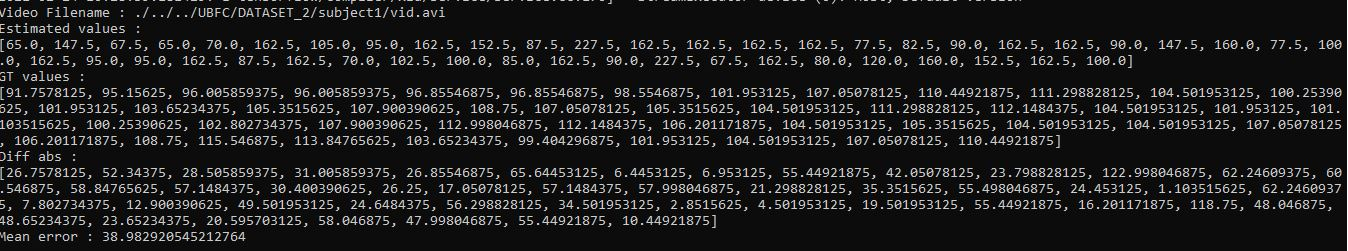
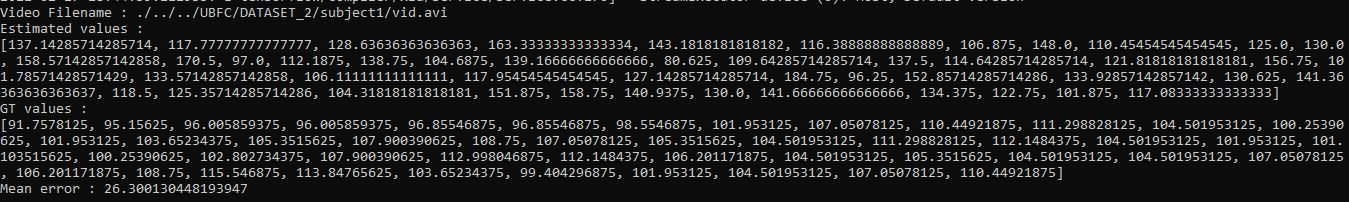
Update - model synthetic - evaluation

diff --git a/experimentation/model_SYNTHETIC/README.md b/experimentation/model_SYNTHETIC/README.md
@@ -42,19 +42,19 @@
     <tbody>
         <tr>
             <td>COHFACE Subject 1 vid 0</td>
-            <td>17.5 bpm</td>
+            <td>39.56 bpm</td>
         </tr>
         <tr>
             <td>COHFACE Subject 2 vid 0</td>
-            <td>17.91 bpm</td>
+            <td>47.95 bpm</td>
         </tr>
         <tr>
             <td>UBFC2 Suject 1</td>
-            <td>29.42 bpm</td>
+            <td>16.22 bpm</td>
         </tr>
         <tr>
             <td>UBFC2 Subject 3</td>
-            <td>27.17 bpm</td>
+            <td>21.83 bpm</td>
         </tr>
     </tbody>
 </table>
@@ -98,19 +98,19 @@
     <tbody>
         <tr>
             <td>COHFACE Subject 1 vid 0</td>
-            <td>36.59 bpm</td>
+            <td>56.00 bpm</td>
         </tr>
         <tr>
             <td>COHFACE Subject 2 vid 0</td>
-            <td>25.97 bpm</td>
+            <td>50.63 bpm</td>
         </tr>
         <tr>
             <td>UBFC2 Suject 1</td>
-            <td>20.47 bpm</td>
+            <td>23.15 bpm</td>
         </tr>
         <tr>
             <td>UBFC2 Subject 3</td>
-            <td>25.10 bpm</td>
+            <td>31.20 bpm</td>
         </tr>
     </tbody>
 </table>
@@ -154,19 +154,19 @@
     <tbody>
         <tr>
             <td>COHFACE Subject 1 vid 0</td>
-            <td>82.84 bpm</td>
+            <td>64.81 bpm</td>
         </tr>
         <tr>
             <td>COHFACE Subject 2 vid 0</td>
-            <td>91.73 bpm</td>
+            <td>60.38 bpm</td>
         </tr>
         <tr>
             <td>UBFC2 Suject 1</td>
-            <td>38.98 bpm</td>
+            <td>26.30 bpm</td>
         </tr>
         <tr>
             <td>UBFC2 Subject 3</td>
-            <td>27.01 bpm</td>
+            <td>36.30 bpm</td>
         </tr>
     </tbody>
 </table>
